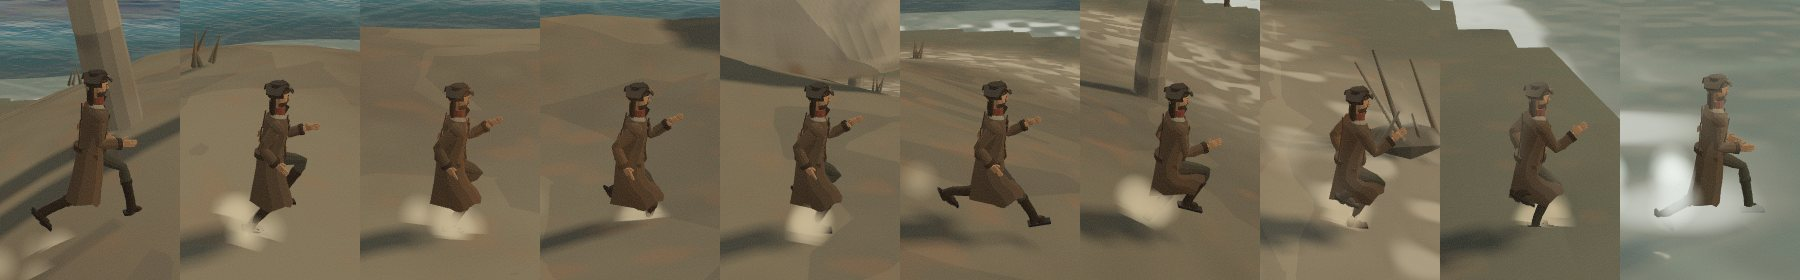
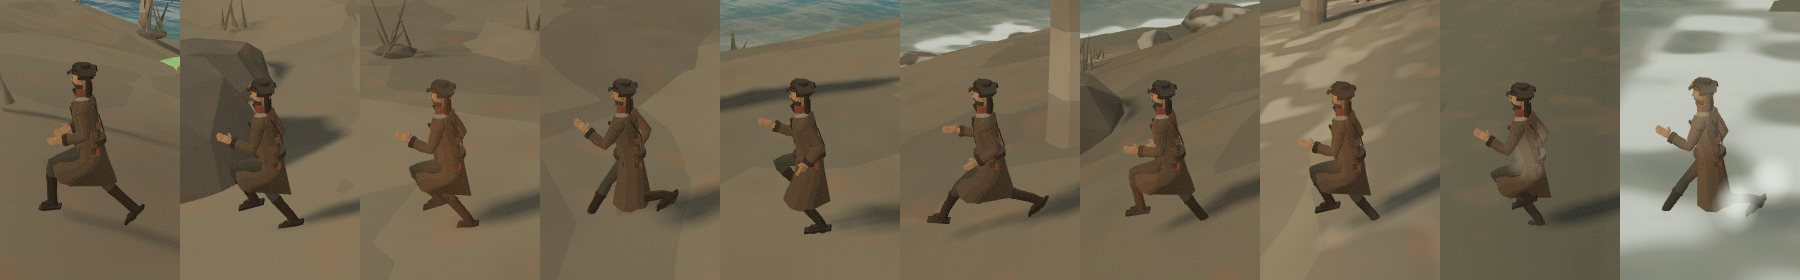
Review fixes: map bake repaint, tap on cancel, observer cleanup, render throttle, docs
- A chart reopened while the coastline bake is still running now repaints as
  each island lands (bake listeners instead of a single callback).
- An iOS system gesture that cancels a pointer is never counted as a tap or
  double-tap on the map.
- A map whose panel re-rendered disconnects its ResizeObserver.
- The captain reuses one blend-target map instead of allocating every frame.
- While the Maps panel is open the 3D backdrop renders every other frame so
  pinch/pan keep the GPU on phones (the winch and ship showcase are untouched).
- docs/expedition-pass: the in-game run strip is re-captured from the final
  build (the old one showed the sand puffs that were removed); before/after
  images for the run, map and ocean are embedded with captions.

Claude-Session: https://claude.ai/code/session_0186uXpWUZ1MU7k7tKqcwZ2E

diff --git a/src/ui/mapArt.ts b/src/ui/mapArt.ts
@@ -299,6 +299,8 @@ interface LandLayer {
 }
 let landLayers: LandLayer[] | null = null;
 let baking = false;
+/** maps waiting on the bake (a chart reopened mid-bake must repaint too) */
+const bakeListeners = new Set<() => void>();
 
 function layerFor(isl: (typeof ISLANDS)[number]): LandLayer {
   const size = Math.ceil(isl.r * 2.7);
@@ -318,7 +320,9 @@ function chartLayers(): LandLayer[] {
  * (~10 ms slices) so opening the chart never stalls a frame. `onProgress` repaints as each island lands.
  */
 export function bakeChartLayers(onProgress: () => void) {
-  if (baking || chartLayers().every((l) => l.ready)) return;
+  if (chartLayers().every((l) => l.ready)) return;
+  bakeListeners.add(onProgress);
+  if (baking) return;
   baking = true;
   const jobs = chartLayers().filter((l) => !l.ready);
   let li = 0, row = 0;
@@ -336,10 +340,13 @@ export function bakeChartLayers(onProgress: () => void) {
       li++;
       row = 0;
       hs = null;
-      onProgress();
+      for (const f of bakeListeners) f();
     }
     if (li < jobs.length) setTimeout(step, 0);
-    else baking = false;
+    else {
+      baking = false;
+      bakeListeners.clear();
+    }
   };
   setTimeout(step, 0);
 }

diff --git a/src/ui/ui.ts b/src/ui/ui.ts
@@ -133,6 +133,8 @@ export class UI {
   private lastActionsKey = '';
   private seenCatalog = new Set<string>();
   panelOpen = false;
+  /** the Maps panel is up: the game draws the 3D scene behind it at half rate so pinch/pan get the GPU */
+  mapOpen = false;
 
   constructor(private game: GameAPI) {
     this.root = document.getElementById('ui')!;
@@ -691,6 +693,7 @@ export class UI {
     this.sheet.remove();
     this.sheet = null;
     this.panelOpen = false;
+    this.mapOpen = false;
     this.game.setShowcase(false);
   }
 
@@ -1204,6 +1207,7 @@ export class UI {
   mapsPanel(focus?: string) {
     const s = this.store;
     const { body, tabs } = this.openSheet('Maps & Charts', 'Treasure maps and the known world');
+    this.mapOpen = true;
     const owned = TREASURE_MAPS.filter((m) => m.fragments.some((f) => s.data.fragments.includes(f)));
     let tab = focus ?? s.data.activeMap ?? owned[0]?.id ?? 'world';
     if (tab !== 'world' && !owned.find((m) => m.id === tab)) tab = 'world';

diff --git a/src/ui/mapView.ts b/src/ui/mapView.ts
@@ -136,6 +136,12 @@ export class ZoomableMap {
   }
 
   private resize() {
+    if (!this.el.isConnected) {
+      // the panel re-rendered or closed: stop observing a detached map
+      this.ro?.disconnect();
+      this.ro = null;
+      return;
+    }
     const r = this.el.getBoundingClientRect();
     const w = Math.round(r.width), h = Math.round(r.width / this.content.aspect);
     if (!w || (w === this.w && h === this.h)) return;
@@ -230,7 +236,8 @@ export class ZoomableMap {
         const t = this.tap;
         this.tap = null;
         const now = performance.now();
-        if (t && now - t.t < 300 && t.moved < 10) {
+        // a cancelled pointer (an iOS system gesture took over) is never a tap
+        if (t && e.type === 'pointerup' && now - t.t < 300 && t.moved < 10) {
           const lt = this.lastTap;
           if (now - lt.t < 350 && Math.hypot(t.x - lt.x, t.y - lt.y) < 30) {
             // double-tap: zoom in about the tap; at max zoom, back out to the whole chart

diff --git a/src/player/captain.ts b/src/player/captain.ts
@@ -32,6 +32,7 @@ export class Captain {
   private loco: Loco | null = null;
   /** blend weight per action, eased toward the pose's targets and always normalised to 1 (no bind-pose leak) */
   private weights = new Map<THREE.AnimationAction, number>();
+  private targets = new Map<THREE.AnimationAction, number>(); // reused every frame (no per-frame allocation)
   private lastYaw = 0;
   private lastSpeed = 0;
   private lean = new THREE.Vector2();
@@ -95,7 +96,8 @@ export class Captain {
     const loco = this.loco;
     const moving = this.pose === 'walk' && speed > 0.05;
     const v = speed / this.rigScale;
-    const target = new Map<THREE.AnimationAction, number>();
+    const target = this.targets;
+    target.clear();
     let rate = 9;
     if (moving && loco) {
       const s = strideAt(WALK, RUN, v);

diff --git a/src/game/game.ts b/src/game/game.ts
@@ -197,11 +197,14 @@ export class Game implements GameAPI {
     });
     this.renderer.compile(this.scene, this.camera);
     let last = performance.now();
+    let frame = 0;
     const loop = (now: number) => {
       const dt = Math.min(0.05, (now - last) / 1000);
       last = now;
       this.update(dt);
-      this.renderer.render(this.scene, this.camera);
+      // behind the Maps panel the scene is only a dimmed backdrop: draw it every other frame so the map's
+      // pinch and pan keep the GPU on a phone
+      if (!this.ui.mapOpen || (frame++ & 1) === 0) this.renderer.render(this.scene, this.camera);
       requestAnimationFrame(loop);
     };
     requestAnimationFrame(loop);

diff --git a/docs/expedition-pass/README.md b/docs/expedition-pass/README.md
@@ -64,6 +64,14 @@ renders the rig over ground lines that scroll at body speed, so foot sliding is 
 frame strips in `screens/gait_*` come from.
 
 ![gait before/after](screens/gait_before_after.png)
+*Gait lab, side-on over ground lines that scroll at body speed. Top: the shipped Walk at 2.2× (how the game "ran").
+Middle: the procedural walk. Bottom: the procedural run.*
+
+In game, before (the sped-up Walk, upright and stiff) and after (the procedural run, final build, side-on camera on
+Turtle Atoll; the last frame is a wading splash at the waterline):
+
+![in-game run before](screens/ingame_run_before.jpg)
+![in-game run after](screens/ingame_run_after.jpg)
 
 Known limits: the coat tails are skinned to the thighs (MeshCraft weights), so they kick out behind the leg in the run's
 recovery; fixing that means re-weighting the mesh. The procedural gait is for flat-ish ground; there is no foot IK
@@ -94,7 +102,13 @@ sites, and labels drawn over each other ("Rooftop Hollow" twice on top of itself
 - Treasure maps render at 2× with a finer coastline (one height grid feeds the shading and the outline: fewer samples
   than the old 1× map).
 
-![map zoom levels](screens/map_after_zoom_levels.jpg)
+| Before: fixed 480 px bitmap, overlapping labels | After: overview → zoomed on Driftholm → treasure map 1× and 3× |
+|---|---|
+| ![map before](screens/map_before.png) | ![map zoom levels](screens/map_after_zoom_levels.jpg) |
+
+iPhone landscape (the legend hides on small surfaces):
+
+![map landscape](screens/map_after_landscape.jpg)
 
 ## 3. The sea
 
@@ -105,6 +119,10 @@ crest highlights and dark troughs that recede into texture toward the horizon, f
 at dusk and night, and the wake visual check still passes for all three vessels.
 
 ![ocean](screens/ocean_before_after.jpg)
+*Left: before (value-noise ripples). Right: after (FFT chop), same moment of the first voyage.*
+
+![ocean dusk night noon](screens/ocean_dusk_night_noon.jpg)
+*Dusk, night and noon from the wake visual check.*
 
 ## GITCRAFT tools used
 - **StudioCraft WorldCraft `ocean`**: the FFT chop tile (and its loop/tile/spectrum/engine checks).
